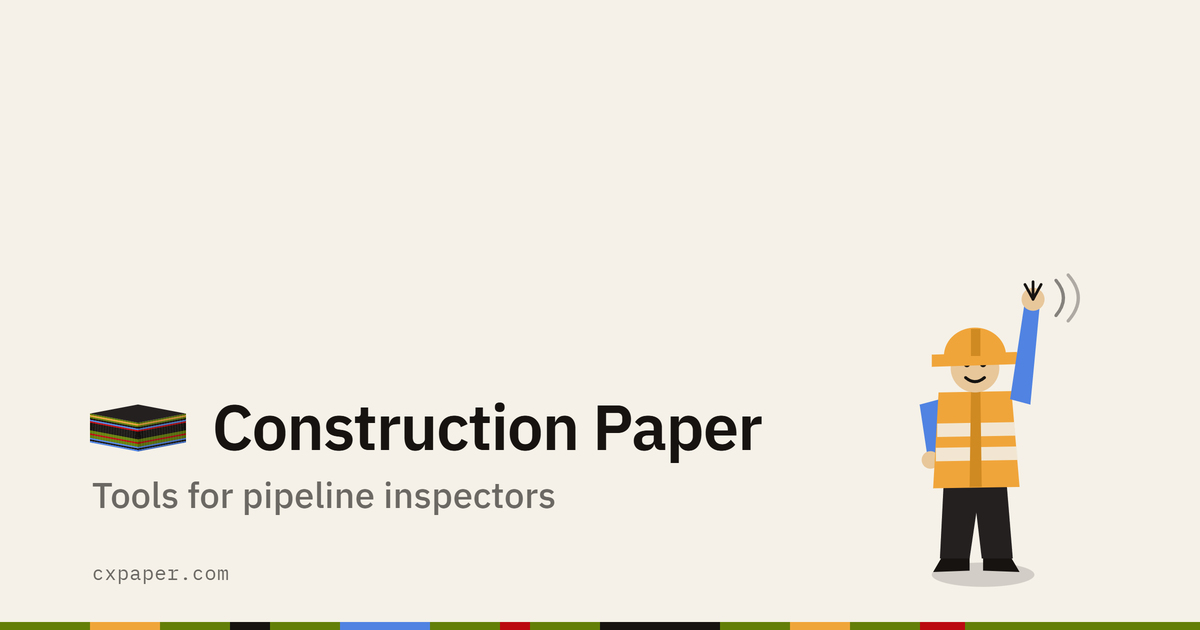
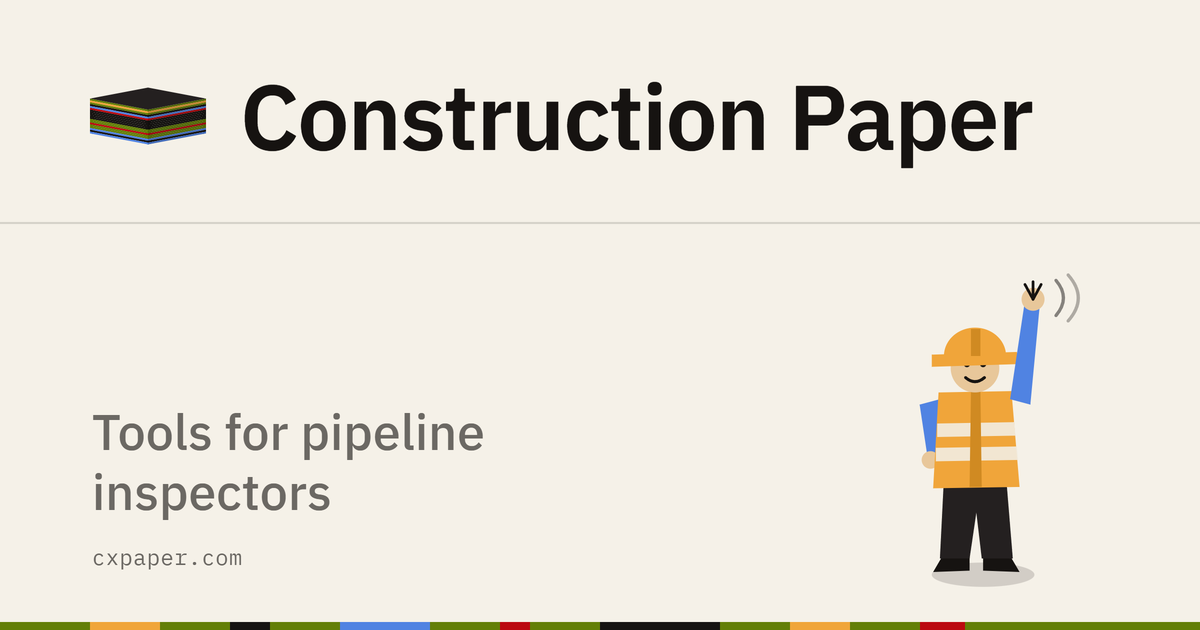
Full-width header band for the OG image, and name the inspector on the site
Chris's next round of feedback on the preview image: stretch the logo and
wordmark across the top as one band, and let the tagline get larger,
sitting beside the inspector below - rather than everything stacked with
gaps in the middle. Reworks assets/og-image.png accordingly.

Chris also named the character - Yule Avdat - for consistency with the
sticker pack. Uses that name in the OG image alt text and in the
accessibility title/desc text for all three animated storybook scenes
(Construction Paper, Marco Polocator, Paper Airplane), plus the source
comments in tools/paper_airplane so a future rebuild stays in sync.

diff --git a/index.html b/index.html
@@ -84,7 +84,7 @@
 <meta property="og:image:type" content="image/png">
 <meta property="og:image:width" content="1200">
 <meta property="og:image:height" content="630">
-<meta property="og:image:alt" content="Construction Paper — tools for pipeline inspectors">
+<meta property="og:image:alt" content="Construction Paper — Yule Avdat, the inspector from Paper Airplane, waving hello">
 <meta name="twitter:card" content="summary_large_image">
 <meta name="twitter:title" content="Construction Paper">
 <meta name="twitter:description" content="Tools for inspectors, built by inspectors. Photos named by station, Google Earth KMZs, stationing, features and georeferencing — one portable program.">
@@ -350,7 +350,7 @@
 <svg class="cps-svg" viewBox="0 0 1000 580" preserveAspectRatio="xMidYMid meet" role="img"
      aria-labelledby="cps-t cps-d" focusable="false">
 <title id="cps-t">From the right-of-way to named files</title>
-<desc id="cps-d">An inspector in a hi-vis vest photographs a pipeline right-of-way. The view tilts to a map, where the right-of-way edges, a workspace boundary, a wetland, a stream, station ticks and camera pins draw themselves. The map then lands on a laptop in a truck cab, listing photos renamed with their station numbers and a Google Earth KMZ for the day.</desc>
+<desc id="cps-d">Yule Avdat, an inspector in a hi-vis vest, photographs a pipeline right-of-way. The view tilts to a map, where the right-of-way edges, a workspace boundary, a wetland, a stream, station ticks and camera pins draw themselves. The map then lands on a laptop in a truck cab, listing photos renamed with their station numbers and a Google Earth KMZ for the day.</desc>
 
 <defs>
   <filter id="cps-grainf" x="0" y="0" width="100%" height="100%">
@@ -620,7 +620,7 @@
       </g>
     </g>
 
-    <!-- ---------- THE INSPECTOR ---------- -->
+    <!-- ---------- THE INSPECTOR (Yule Avdat) ---------- -->
     <g class="cps-figure">
       <g transform="translate(430,506) rotate(-1.6)">
         <g class="cps-bob">
@@ -726,7 +726,7 @@
 
       <div class="tabshow-panel" role="tabpanel" id="tp-marco" aria-labelledby="tb-marco" hidden>
 <!-- ================= BEGIN MARCO POLOCATOR STORYBOOK ================= -->
-<section class="mpo-scope" aria-label="An inspector photographs the right-of-way, and the photograph comes back carrying where it was taken">
+<section class="mpo-scope" aria-label="Yule Avdat photographs the right-of-way, and the photograph comes back carrying where it was taken">
 <style>
 /* ============================================================
    Marco Polocator. An inspector takes a photograph on the ROW,
@@ -858,8 +858,8 @@
 <div class="mpo-stagewrap">
 <svg class="mpo-svg" viewBox="0 0 1000 580" preserveAspectRatio="xMidYMid meet" role="img"
      aria-labelledby="mpo-t mpo-d" focusable="false">
-<title id="mpo-t">An inspector photographs the right-of-way, and the photograph comes back knowing where it was taken</title>
-<desc id="mpo-d">An inspector in a hi-vis vest raises a camera on a pipeline right-of-way and takes a photograph. The view settles into the photograph he just took. A mini-map opens in the bottom left showing the corridor, its wetland and waterbody layers and the numbered stations, with a red cone fanning out from the camera position in the direction he was shooting. A compass rose appears on the right and its ring turns until the bearing is at the top, with the bearing under it. A caption panel writes itself in the bottom right in green - station and project, the feature, the coordinates and bearing, the date. Two files are listed: the original, untouched, and a marked copy in an Overlays folder beside it.</desc>
+<title id="mpo-t">Yule Avdat photographs the right-of-way, and the photograph comes back knowing where it was taken</title>
+<desc id="mpo-d">Yule Avdat, an inspector in a hi-vis vest, raises a camera on a pipeline right-of-way and takes a photograph. The view settles into the photograph he just took. A mini-map opens in the bottom left showing the corridor, its wetland and waterbody layers and the numbered stations, with a red cone fanning out from the camera position in the direction he was shooting. A compass rose appears on the right and its ring turns until the bearing is at the top, with the bearing under it. A caption panel writes itself in the bottom right in green - station and project, the feature, the coordinates and bearing, the date. Two files are listed: the original, untouched, and a marked copy in an Overlays folder beside it.</desc>
 
 <defs>
   <clipPath id="mpo-clip"><rect x="0" y="0" width="1000" height="580"/></clipPath>
@@ -1471,7 +1471,7 @@
 <div class="pap-stagewrap">
 <svg class="pap-svg" viewBox="0 0 1000 580" preserveAspectRatio="xMidYMid meet" role="img" aria-labelledby="pap-t pap-d" focusable="false">
 <title id="pap-t">Paper Airplane: fly the right-of-way, then mark what the clip shows</title>
-<desc id="pap-d">An inspector in a hi-vis vest throws his camera into the air; at the top of the throw it unfolds into a drone and starts recording. The view tilts over into a map and the drone flies the whole right-of-way, past a standing crop field and over a stream crossing, drawing its flight behind it, and the clip is saved. Later, in the truck, the clip is opened in Paper Airplane on a laptop and the player fills the picture. It plays down the right-of-way, stakes going by, and a filter bag out in the crop past the LOD flagging comes up out of the distance; it pauses when the bag is close: Filter bag is picked from the class list and one click marks it. It plays on, the bag goes by, the stream crossing comes up, and it pauses there: silt fence is picked and drawn along the near bank and again along the far bank, then an erosion control blanket on the near bank is drawn round. Each mark joins the list of marks on this clip, and the redline is saved as a KMZ. Two things come out. The clip with the overlay burned in, playing from the start: the bag and the crossing go by, with a mini-map of the corridor sliding under the camera cone, a compass, and a caption with the station and the spread, These Big Jobs - Spread I, turning over as it flies. And the KMZ opened in Google Earth: a folder of erosion control devices with the blanket, the filter bag and the two silt fences drawn on the ground where they are; the filter bag is clicked and its balloon gives the station, the class, that it was marked by hand in the viewer, when in the clip, and the mark it came from.</desc>
+<desc id="pap-d">Yule Avdat, an inspector in a hi-vis vest, throws his camera into the air; at the top of the throw it unfolds into a drone and starts recording. The view tilts over into a map and the drone flies the whole right-of-way, past a standing crop field and over a stream crossing, drawing its flight behind it, and the clip is saved. Later, in the truck, the clip is opened in Paper Airplane on a laptop and the player fills the picture. It plays down the right-of-way, stakes going by, and a filter bag out in the crop past the LOD flagging comes up out of the distance; it pauses when the bag is close: Filter bag is picked from the class list and one click marks it. It plays on, the bag goes by, the stream crossing comes up, and it pauses there: silt fence is picked and drawn along the near bank and again along the far bank, then an erosion control blanket on the near bank is drawn round. Each mark joins the list of marks on this clip, and the redline is saved as a KMZ. Two things come out. The clip with the overlay burned in, playing from the start: the bag and the crossing go by, with a mini-map of the corridor sliding under the camera cone, a compass, and a caption with the station and the spread, These Big Jobs - Spread I, turning over as it flies. And the KMZ opened in Google Earth: a folder of erosion control devices with the blanket, the filter bag and the two silt fences drawn on the ground where they are; the filter bag is clicked and its balloon gives the station, the class, that it was marked by hand in the viewer, when in the clip, and the mark it came from.</desc>
 <defs>
 <clipPath id="pap-fclip"><rect x="28" y="50" width="680" height="383"/></clipPath>
 <clipPath id="pap-gclip"><rect x="-1000" y="92" width="2400" height="900"/></clipPath>
@@ -1568,7 +1568,7 @@
 <path class="pap-a-track" pathLength="100" stroke="#161311" stroke-width="5.5" stroke-linecap="round" stroke-linejoin="round" opacity=".35" d="M-39.8 379.9 L-27.47 379.74 L-15.14 379.51 L-2.81 379.21 L9.52 378.83 L21.84 378.38 L34.17 377.87 L46.48 377.28 L58.8 376.62 L71.11 375.9 L83.42 375.11 L95.72 374.26 L108.02 373.33 L120.32 372.35 L132.6 371.3 L144.89 370.19 L157.16 369.02 L169.44 367.78 L181.7 366.49 L193.96 365.14 L206.21 363.73 L218.46 362.26 L230.7 360.74 L242.93 359.17 L255.15 357.54 L267.37 355.86 L279.58 354.13 L291.79 352.35 L303.98 350.53 L316.17 348.65 L328.36 346.74 L340.53 344.78 L352.7 342.78 L364.87 340.74 L377.02 338.66 L389.18 336.55 L401.32 334.4 L413.46 332.23 L425.6 330.03 L437.73 327.8 L449.85 325.55 L461.98 323.29 L474.1 321.01 L486.22 318.73 L498.34 316.44 L510.46 314.15 L522.58 311.87 L534.7 309.61 L546.83 307.38 L558.97 305.18 L571.11 303.01 L583.25 300.84 L595.39 298.67 L607.53 296.5 L619.67 294.34 L631.81 292.19 L643.96 290.05 L656.11 287.94 L668.27 285.84 L680.42 283.77 L692.58 281.72 L704.75 279.7 L716.92 277.71 L729.1 275.75 L741.28 273.82 L753.47 271.94 L765.66 270.09 L777.86 268.28 L790.07 266.51 L802.28 264.78 L814.5 263.1 L826.72 261.46 L838.95 259.87 L851.19 258.32 L863.43 256.83 L875.68 255.38 L887.93 253.98 L900.19 252.64 L912.46 251.34 L924.73 250.1 L937 248.91 L949.28 247.78 L961.57 246.69 L973.86 245.67 L986.15 244.69 L998.45 243.77 L1010.75 242.91 L1023.06 242.1 L1035.37 241.34 L1047.68 240.64 L1060 240"/>
 <path class="pap-a-track" pathLength="100" stroke="#F7F2E6" stroke-width="2.6" stroke-linecap="round" stroke-linejoin="round" d="M-39.8 379.9 L-27.47 379.74 L-15.14 379.51 L-2.81 379.21 L9.52 378.83 L21.84 378.38 L34.17 377.87 L46.48 377.28 L58.8 376.62 L71.11 375.9 L83.42 375.11 L95.72 374.26 L108.02 373.33 L120.32 372.35 L132.6 371.3 L144.89 370.19 L157.16 369.02 L169.44 367.78 L181.7 366.49 L193.96 365.14 L206.21 363.73 L218.46 362.26 L230.7 360.74 L242.93 359.17 L255.15 357.54 L267.37 355.86 L279.58 354.13 L291.79 352.35 L303.98 350.53 L316.17 348.65 L328.36 346.74 L340.53 344.78 L352.7 342.78 L364.87 340.74 L377.02 338.66 L389.18 336.55 L401.32 334.4 L413.46 332.23 L425.6 330.03 L437.73 327.8 L449.85 325.55 L461.98 323.29 L474.1 321.01 L486.22 318.73 L498.34 316.44 L510.46 314.15 L522.58 311.87 L534.7 309.61 L546.83 307.38 L558.97 305.18 L571.11 303.01 L583.25 300.84 L595.39 298.67 L607.53 296.5 L619.67 294.34 L631.81 292.19 L643.96 290.05 L656.11 287.94 L668.27 285.84 L680.42 283.77 L692.58 281.72 L704.75 279.7 L716.92 277.71 L729.1 275.75 L741.28 273.82 L753.47 271.94 L765.66 270.09 L777.86 268.28 L790.07 266.51 L802.28 264.78 L814.5 263.1 L826.72 261.46 L838.95 259.87 L851.19 258.32 L863.43 256.83 L875.68 255.38 L887.93 253.98 L900.19 252.64 L912.46 251.34 L924.73 250.1 L937 248.91 L949.28 247.78 L961.57 246.69 L973.86 245.67 L986.15 244.69 L998.45 243.77 L1010.75 242.91 L1023.06 242.1 L1035.37 241.34 L1047.68 240.64 L1060 240"/>
 </g></g>
-<!-- ============ THE INSPECTOR ============ -->
+<!-- ============ THE INSPECTOR (Yule Avdat) ============ -->
   <g class="pap-a-fig">
     <g transform="translate(300,510) scale(1.05)">
       <g class="pap-a-dip">

diff --git a/tools/paper_airplane/build.py b/tools/paper_airplane/build.py
@@ -917,7 +917,7 @@ def svg():
     A = o.append
     A('<svg class="pap-svg" viewBox="0 0 1000 580" preserveAspectRatio="xMidYMid meet" role="img" aria-labelledby="pap-t pap-d" focusable="false">')
     A('<title id="pap-t">Paper Airplane: fly the right-of-way, then mark what the clip shows</title>')
-    A('<desc id="pap-d">An inspector in a hi-vis vest throws his camera into the air; at the top of the throw it unfolds into a drone and starts recording. '
+    A('<desc id="pap-d">Yule Avdat, an inspector in a hi-vis vest, throws his camera into the air; at the top of the throw it unfolds into a drone and starts recording. '
       'The view tilts over into a map and the drone flies the whole right-of-way, past a standing crop field and over a stream crossing, drawing its flight behind it, and the clip is saved. '
       'Later, in the truck, the clip is opened in Paper Airplane on a laptop and the player fills the picture. It plays down the right-of-way, stakes going by, and a filter bag out in the crop past the LOD flagging comes up out of the distance; it pauses when the bag is close: '
       'Filter bag is picked from the class list and one click marks it. It plays on, the bag goes by, the stream crossing comes up, and it pauses there: silt fence is picked and drawn along the near bank and again along the far bank, '
